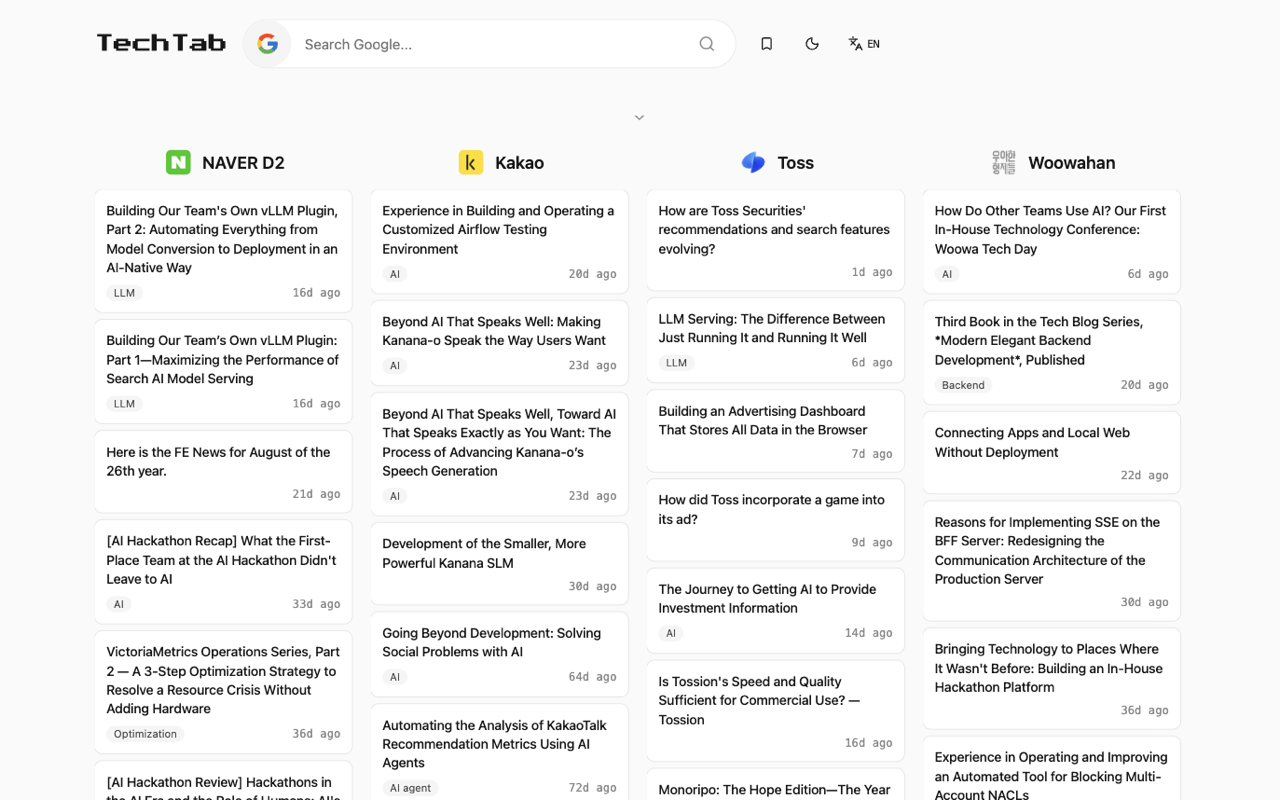
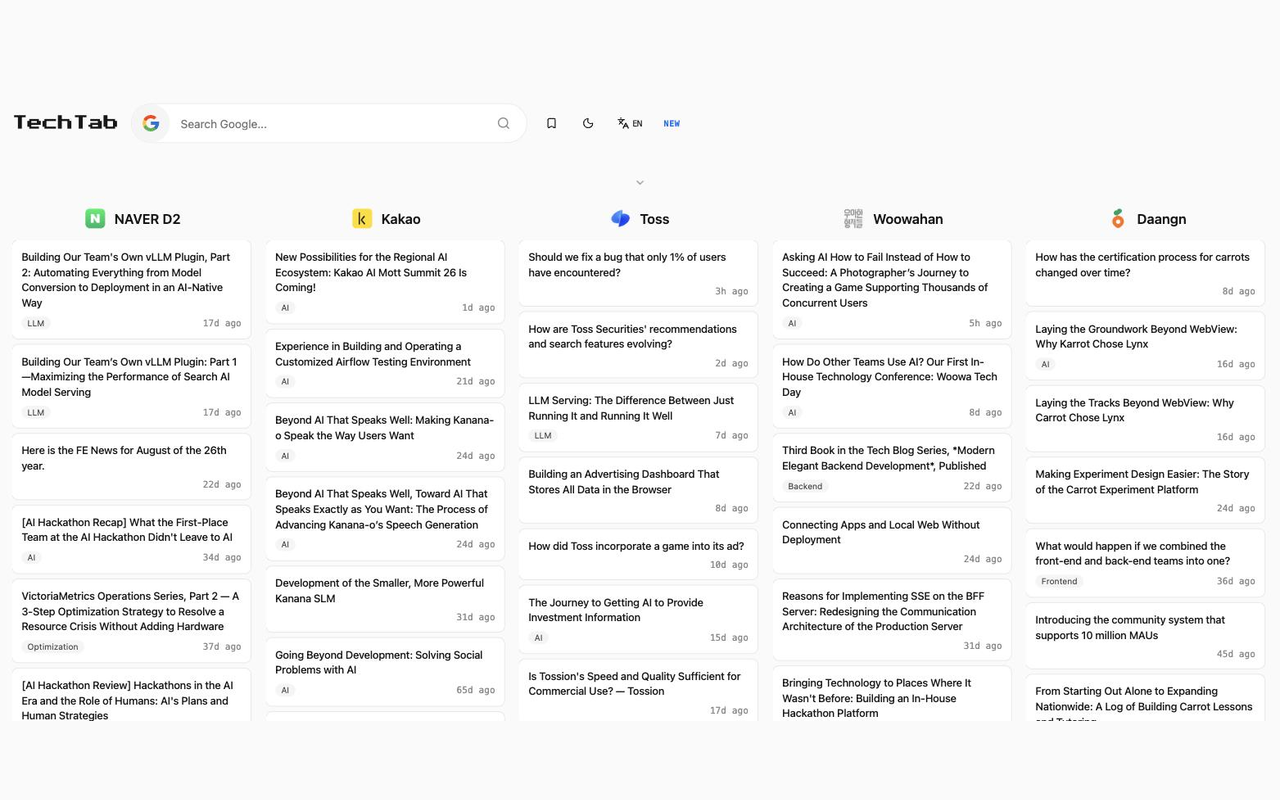
docs: regenerate store screenshots & listing copy for v0.3.1
- All 6 store screenshots + the OG card rebuilt: 5-column board (NAVER D2,
  Kakao, Toss, Woowahan, Daangn), NEW button visible, "23곳 / 23 companies".
- Hero + OG recomposed from an HTML template matching the original design
  (Press Start 2P wordmark, mesh gradient, tilted browser frame), rendered
  at zoom so the final is a downscale (sharper than the previous pass).
- store-listing.md: ko/en full copy refreshed — 23 sources, "최신 글 모음 /
  Latest" feature, i18n line, short description 21→23.

Claude-Session: https://claude.ai/code/session_01QM3oXbEhwvTYFgPg1v5jbi

diff --git a/docs/store-listing.md b/docs/store-listing.md
@@ -2,26 +2,66 @@
 
 ## 짧은 설명 (132자 이내)
 
-네이버·카카오·토스 등 국내 21개 기업 기술 블로그를 새 탭에서 한눈에. 매시간 자동 수집, 필터·북마크·다크모드 지원.
+네이버·카카오·토스 등 국내 23개 기업 기술 블로그를 새 탭에서 한눈에. 매시간 자동 수집, 필터·북마크·다크모드 지원.
 
-(70자)
-
-## 상세 설명
+## 상세 설명 (한국어)
 
 국내 빅테크 기술 블로그를 새 탭에서 모아보는 확장 프로그램입니다.
 
-네이버, 카카오, 토스, 쿠팡, 당근마켓 등 21개 기업의 기술 블로그 RSS를 매시간 자동으로 수집해서, 관심 있는 기업만 골라 나만의 피드로 볼 수 있습니다.
+네이버, 카카오, 토스, 우아한형제들, 당근마켓 등 23개 기업의 기술 블로그 RSS를 매시간 자동으로 수집해서, 관심 있는 기업만 골라 나만의 피드로 볼 수 있습니다.
 
 ■ 주요 기능
-- 21개 국내 기업 기술 블로그 자동 수집 (매시간 갱신)
-- 원하는 기업만 골라서 보드에 추가/제거, 드래그 앤 드롭으로 순서 변경
-- 북마크로 나중에 읽을 글 저장, 읽음 표시로 이미 본 글 구분
-- 마지막으로 본 시점 이후 올라온 글에 NEW 뱃지
-- 제목 키워드 자동 추출(AI, Kafka, LLM 등) 배지 표시
-- 다크/라이트 모드, Google 검색창 내장
+
+23개 국내 기업 기술 블로그 자동 수집 (매시간 갱신)
+
+원하는 기업만 골라서 보드에 추가/제거, 드래그 앤 드롭으로 순서 변경
+
+북마크로 나중에 읽을 글 저장, 읽음 표시로 이미 본 글 구분
+
+마지막으로 본 시점 이후 올라온 글에 NEW 뱃지
+
+'NEW' 버튼으로 최근 7일간 모든 블로그에 올라온 새 글을 소스 구분 없이 한 화면에 모아보기
+
+제목 키워드 자동 추출(AI, Kafka, LLM 등) 배지 표시
+
+영어/한국어 UI, 글 제목 번역
+
+다크/라이트 모드, Google 검색창 내장
+
 
 ■ 개인정보
 회원가입이나 로그인이 필요 없고, 어떠한 개인정보도 수집하지 않습니다. 모든 설정은 브라우저에만 저장됩니다. 자세한 내용은 개인정보처리방침을 참고하세요.
 
 ■ 코드
 소스코드는 GitHub에서 볼 수 있습니다: https://github.com/junye0l/techtab
+
+## 상세 설명 (English)
+
+A Chrome extension that gathers Korean big-tech engineering blogs onto your new-tab page.
+
+It auto-collects the RSS feeds of 23 companies — NAVER, Kakao, Toss, Woowahan, Daangn, and more — every hour, so you can pick the ones you care about and build your own feed.
+
+■ Features
+
+- Auto-collects 23 Korean companies' engineering blogs (refreshed hourly)
+
+- Add or remove only the companies you want; reorder columns by drag and drop
+
+- Bookmark posts to read later; already-read posts are marked
+
+- A NEW badge on posts published since your last visit
+
+- A "Latest" button gathers every post from the last 7 days across all blogs into one view
+
+- Auto-extracted keyword badges from titles (AI, Kafka, LLM, and more)
+
+- English and Korean UI, with article titles translated
+
+- Dark/light mode with a built-in Google search box
+
+■ Privacy
+
+No sign-up or login, and no personal data is collected. All settings are stored only in your browser. See the privacy policy for details.
+
+■ Code
+Source on GitHub: https://github.com/junye0l/techtab
